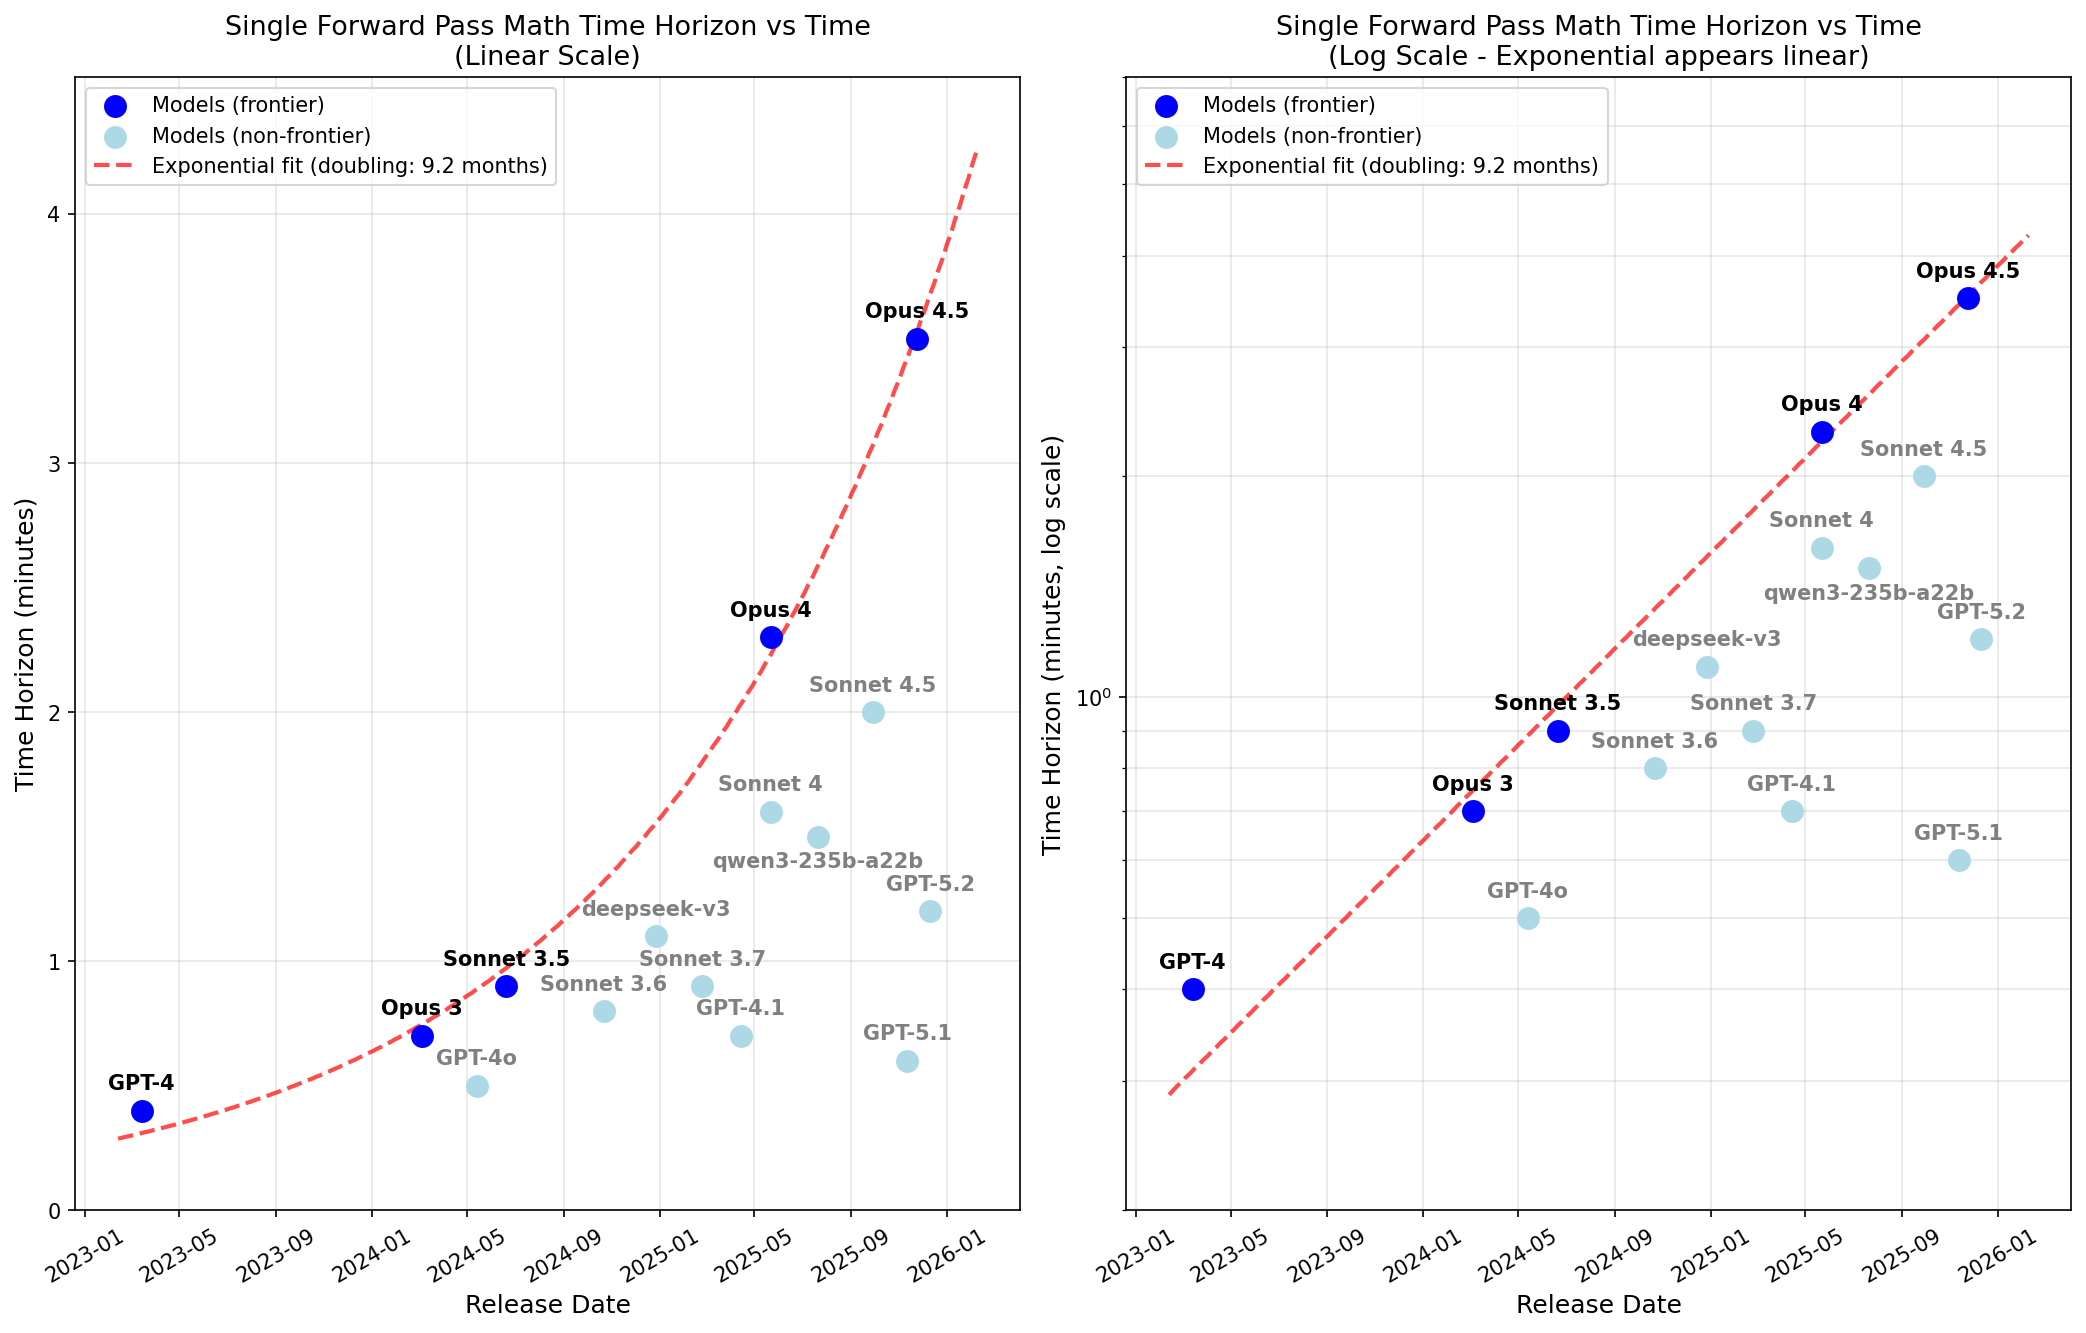
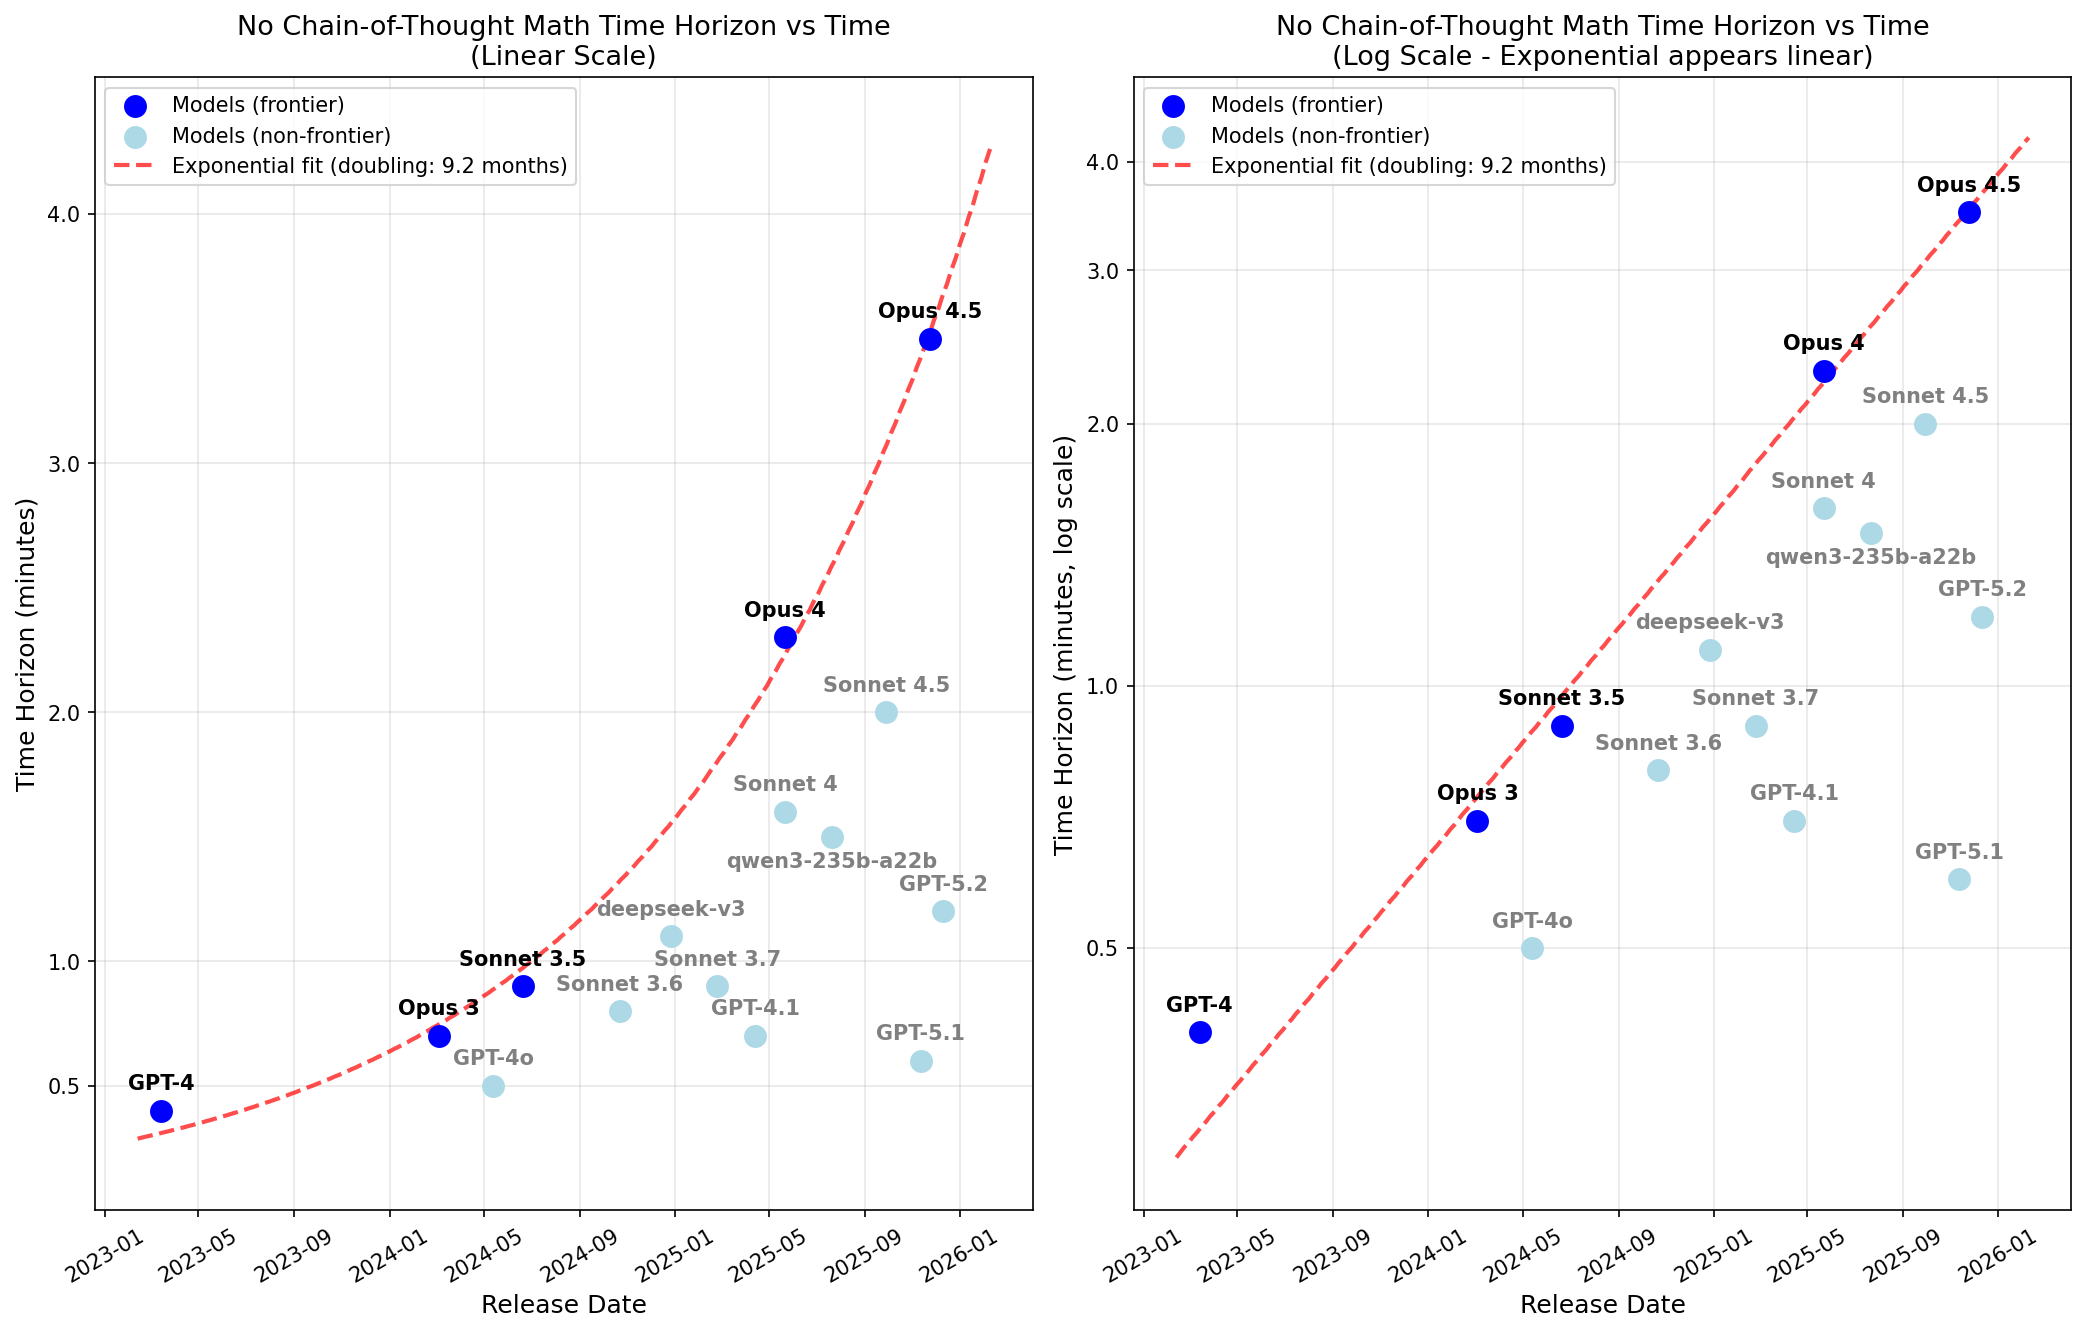
update plot and writeup

diff --git a/plot_time_horizon_vs_time.py b/plot_time_horizon_vs_time.py
@@ -6,6 +6,7 @@ Shows exponential growth in model capabilities over time.
 
 import numpy as np
 import matplotlib.pyplot as plt
+import matplotlib.ticker as ticker
 from datetime import datetime
 from scipy.optimize import curve_fit
 
@@ -110,10 +111,11 @@ def main():
 
     ax1.set_xlabel('Release Date', fontsize=12)
     ax1.set_ylabel('Time Horizon (minutes)', fontsize=12)
-    ax1.set_title('Single Forward Pass Math Time Horizon vs Time\n(Linear Scale)', fontsize=13)
+    ax1.set_title('No Chain-of-Thought Math Time Horizon vs Time\n(Linear Scale)', fontsize=13)
     ax1.legend(loc='upper left')
     ax1.grid(True, alpha=0.3)
     ax1.set_ylim(0, max(time_horizons) * 1.3)
+    ax1.set_yticks([0.5, 1, 2, 3, 4])
 
     # Format x-axis dates
     ax1.tick_params(axis='x', rotation=30)
@@ -134,16 +136,18 @@ def main():
 
     ax2.set_xlabel('Release Date', fontsize=12)
     ax2.set_ylabel('Time Horizon (minutes, log scale)', fontsize=12)
-    ax2.set_title('Single Forward Pass Math Time Horizon vs Time\n(Log Scale - Exponential appears linear)', fontsize=13)
-    ax2.set_yscale('log')
+    ax2.set_title('No Chain-of-Thought Math Time Horizon vs Time\n(Log Scale - Exponential appears linear)', fontsize=13)
+    ax2.set_yscale('log', base=2)
+    ax2.set_yticks([0.5, 1, 2, 3, 4])
+    ax2.get_yaxis().set_major_formatter(ticker.ScalarFormatter())
     ax2.legend(loc='upper left')
-    ax2.grid(True, alpha=0.3, which='both')
+    ax2.grid(True, alpha=0.3, which='major')
 
     # Format x-axis dates
     ax2.tick_params(axis='x', rotation=30)
 
     # Set y-axis limits for log scale
-    ax2.set_ylim(0.2, max(time_horizons) * 2)
+    ax2.set_ylim(0.25, 5)
 
     plt.tight_layout()
 
@@ -201,6 +205,7 @@ def main():
     ax3.legend(loc='upper left')
     ax3.grid(True, alpha=0.3)
     ax3.set_ylim(0, max(max(th_fit), max(time_horizons_nr)) * 1.3)
+    ax3.set_yticks([0.5, 1, 2, 3, 4])
     ax3.tick_params(axis='x', rotation=30)
 
     # --- Comparison Plot 2: Log scale ---
@@ -224,10 +229,12 @@ def main():
     ax4.set_xlabel('Release Date', fontsize=12)
     ax4.set_ylabel('Time Horizon (minutes, log scale)', fontsize=12)
     ax4.set_title('Comparison: With vs Without Repeat/Filler\n(Log Scale)', fontsize=13)
-    ax4.set_yscale('log')
+    ax4.set_yscale('log', base=2)
+    ax4.set_yticks([0.5, 1, 2, 3, 4])
+    ax4.get_yaxis().set_major_formatter(ticker.ScalarFormatter())
     ax4.legend(loc='upper left')
-    ax4.grid(True, alpha=0.3, which='both')
-    ax4.set_ylim(0.2, max(max(th_fit), max(time_horizons_nr)) * 2)
+    ax4.grid(True, alpha=0.3, which='major')
+    ax4.set_ylim(0.25, 5)
     ax4.tick_params(axis='x', rotation=30)
 
     plt.tight_layout()

diff --git a/write_up_single_forward_pass_time_horizon.md b/write_up_single_forward_pass_time_horizon.md
@@ -4,7 +4,7 @@ A key risk factor for scheming (and misalignment more generally) is [opaque reas
 One proxy for this is how good AIs are at solving math problems immediately without any chain-of-thought (CoT) (as in, in a single forward pass).
 I've measured this on a dataset of easy math problems and used this to estimate 50% reliability no-CoT time horizon using the same methodology introduced in [Measuring AI Ability to Complete Long Tasks](https://metr.org/blog/2025-03-19-measuring-ai-ability-to-complete-long-tasks/) (the METR time horizon paper).
 
-To get human completion times, I ask Opus 4.5 to estimate how long it would take the median AIME participant to complete a given problem.
+**Important caveat: To get human completion times, I ask Opus 4.5 to estimate how long it would take the median AIME participant to complete a given problem.**
 These times seem roughly reasonable to me, but getting some actual human baselines and using these to correct Opus 4.5's estimates would be better.
 
 Here are the 50% reliability time horizon results:
